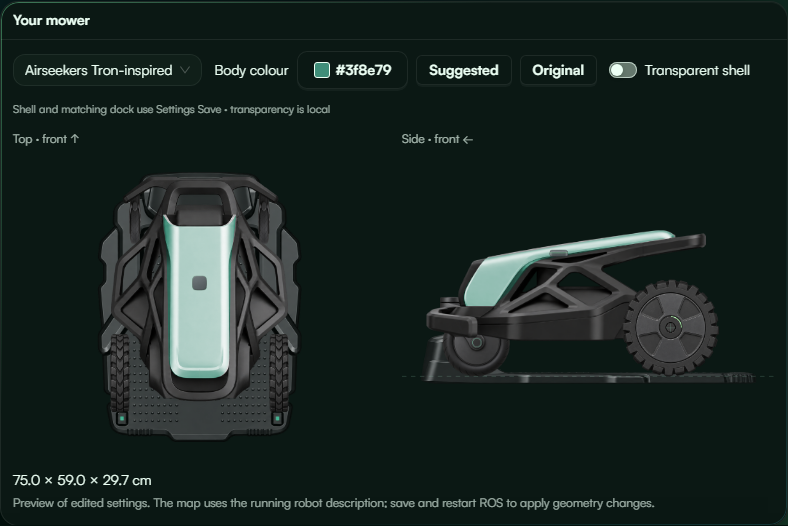
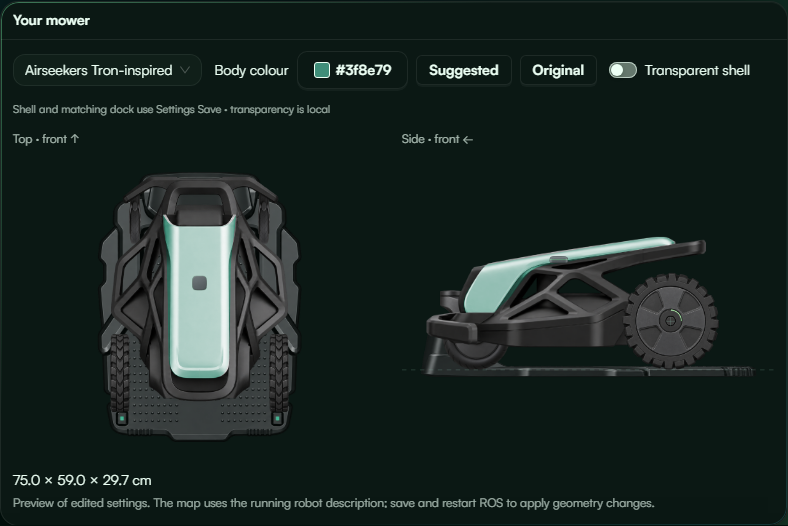
docs(gui): lower Tron example chassis in visual previews

Changed region(s): [[0.5178, 0.4259, 0.9746, 0.73]]

diff --git a/gui/web/tests/e2e/fixtures/tron-gallery.tsx b/gui/web/tests/e2e/fixtures/tron-gallery.tsx
@@ -3,7 +3,7 @@ import {LayeredMower} from "../../../src/components/robot/LayeredMower";
 import {parseRobotUrdf,previewRobotGeometry} from "../../../src/utils/robotModel";
 import {ROBOT_URDF} from "../../../src/test/robotUrdf";
 // Illustration proportions only. Selecting a shell never applies geometry.
-const robot=previewRobotGeometry(parseRobotUrdf(ROBOT_URDF)!,{chassis_length:.75,chassis_width:.59,chassis_height:.297,chassis_center_x:.28,chassis_z_offset:-.035});
+const robot=previewRobotGeometry(parseRobotUrdf(ROBOT_URDF)!,{chassis_length:.75,chassis_width:.59,chassis_height:.297,chassis_center_x:.28,chassis_z_offset:-.070});
 const colours=[{name:"Original silver",colour:""},{name:"Mowgli green",colour:"#3f8e79"},{name:"Ocean blue",colour:"#167bc1"},{name:"Warm orange",colour:"#e97822"}];
 createRoot(document.getElementById("root")!).render(<main>
 <style>{`
@@ -16,7 +16,7 @@ header{display:flex;justify-content:space-between;align-items:end;margin-bottom:
 <header><div><div className="eyebrow">MOWGLINEXT / NEW SHELL</div><h1>Airseekers Tron-inspired</h1></div><p>Silver cover only · original shading retained<br/>Graphite frame, deck and bumper stay unchanged</p></header>
 <div className="grid">{colours.map(({name,colour})=><article key={name}><h2>{name}</h2><div className="views">
 <div><svg viewBox="-.315 -.68 .63 .82"><LayeredMower robot={robot} style="tron" colour={colour} view="top" sensors={false} layoutDetails={false} transparent={false}/></svg><div className="caption">TOP · FRONT ↑</div></div>
-<div><svg viewBox="-.68 -.30 .82 .47"><LayeredMower robot={robot} style="tron" colour={colour} view="side" sensors={false} layoutDetails={false} transparent={false}/></svg><div className="caption">LEFT SIDE · FRONT ←</div></div>
+<div><svg viewBox="-.68 -.265 .82 .47"><LayeredMower robot={robot} style="tron" colour={colour} view="side" sensors={false} layoutDetails={false} transparent={false}/></svg><div className="caption">LEFT SIDE · FRONT ←</div></div>
 </div></article>)}</div>
 <footer><span>Actual application paint pipeline · no pre-painted colour variants</span><span>Shell-only study · standard dock pairing · illustrative proportions</span></footer>
 </main>);

diff --git a/gui/web/tests/e2e/tron-shell.spec.ts b/gui/web/tests/e2e/tron-shell.spec.ts
@@ -32,8 +32,9 @@ test("Tron silver cover recolours in both projections",async({page})=>{
 });
 // Photo-proportioned demo only; no manufacturer dimensions/preset are introduced.
 const settings={mower_model:"CUSTOM",mower_visual_style:"tron",mower_visual_colour:"#3f8e79",lidar_enabled:false,
-    chassis_length:.75,chassis_width:.59,chassis_height:.297,chassis_center_x:.28,chassis_z_offset:-.035,
+    chassis_length:.75,chassis_width:.59,chassis_height:.297,chassis_center_x:.28,chassis_z_offset:-.070,
     wheel_radius:.13,wheel_width:.065,wheel_track:.53,wheel_x_offset:0,caster_radius:.09,caster_track:.43,caster_x_offset:.52,
+    gps_x:.30,gps_y:0,gps_z:.165,
     blade_radius:.11,tool_width:.22,dock_visual_length:.90,dock_visual_width:.68,dock_visual_x_offset:0,dock_visual_y_offset:0};
 test("Tron hardware and transparent sensors share artwork and standard dock",async({page})=>{
     mkdirSync(shots,{recursive:true});

diff --git a/docs/pr/tron-shell/README.md b/docs/pr/tron-shell/README.md
@@ -25,6 +25,12 @@ of Tron's front omni wheels. The illustrative 750 × 590 × 297 mm chassis and
 wheel/sensor values are screenshot fixtures only, not measured dimensions or a
 preset. They are never applied by selecting this shell. No robot was accessed.
 
+The revised example places the chassis bottom 70 mm below the rear axle, giving
+60 mm ground clearance with its 130 mm wheel radius. This lowers the body 35 mm
+from the first screenshot without changing its height or wheel dimensions. The
+illustrative GPS mounting height moves down with the shell. This is a visual
+fit to the supplied reference, not a measured Tron specification.
+
 ## Artwork provenance and registration
 
 Built-in ImageGen generated `tron.png` using the user's three Tron photos as shape
